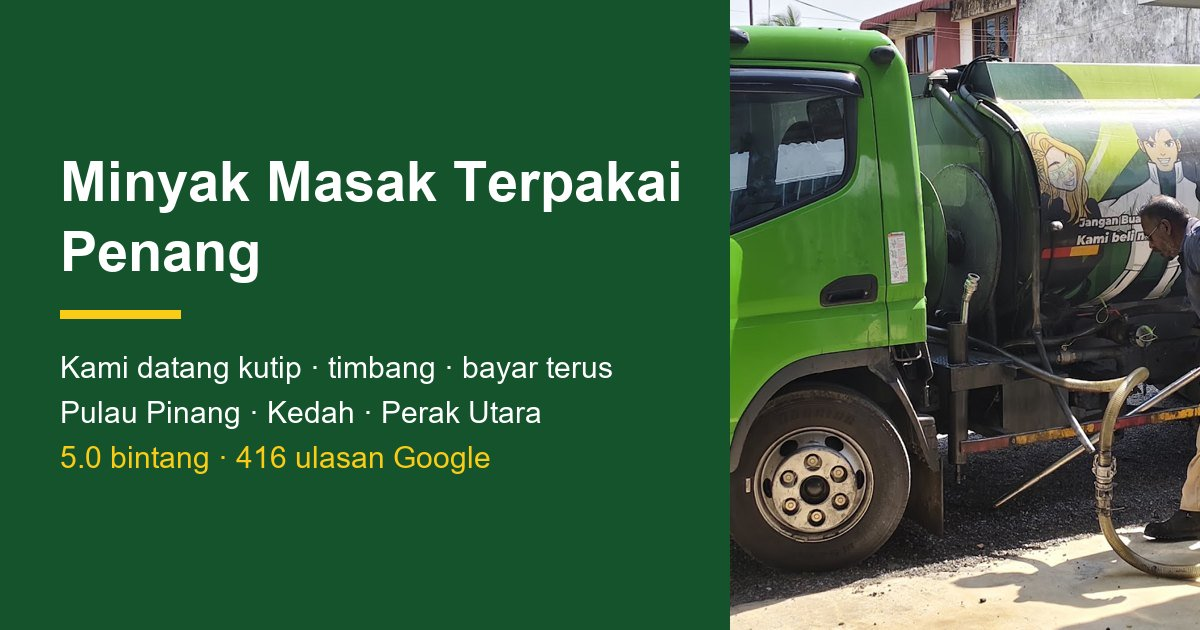
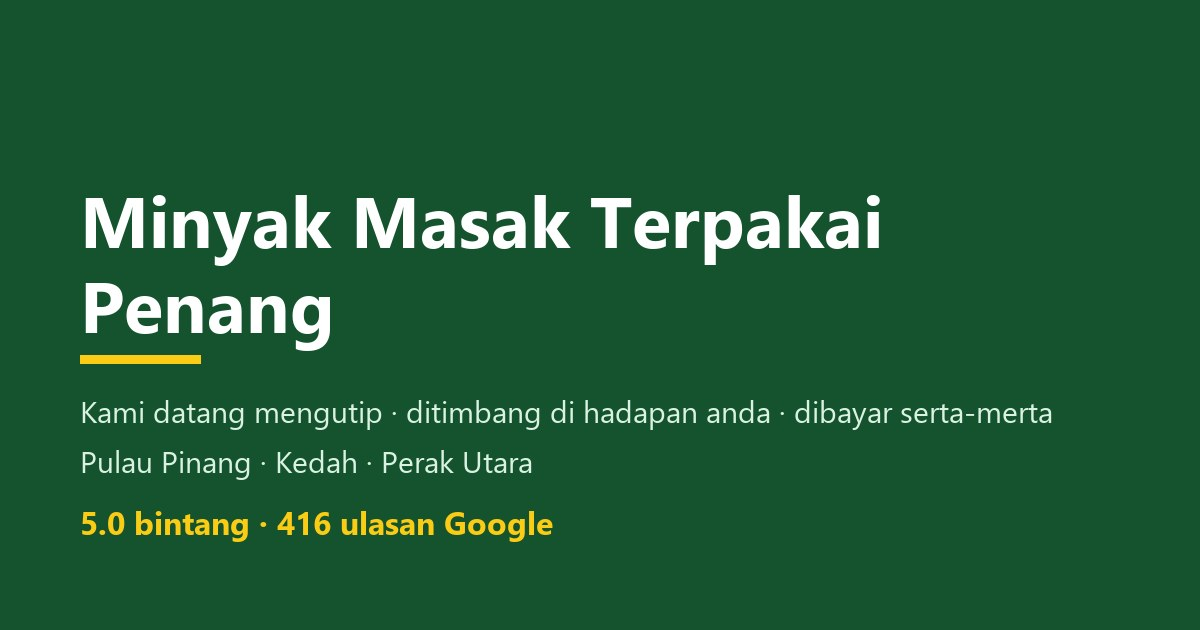
Buang gambar lori syarikat lain (arahan Boss); JKKK; og baharu

diff --git a/draf/index.html b/draf/index.html
@@ -140,6 +140,7 @@ footer small{color:#a9b0a7}
 @media(prefers-reduced-motion:reduce){*{transition:none!important;scroll-behavior:auto!important}}
 .ejen{background:#facc15;color:#14532d;font-size:14px;font-weight:600}.ejen .wrap{display:flex;align-items:center;justify-content:center;gap:12px;flex-wrap:wrap;padding-top:8px;padding-bottom:8px;text-align:center}.ejbtn{background:#14532d;color:#fff!important;text-decoration:none;font-weight:800;padding:8px 18px;border-radius:999px;min-height:40px;display:inline-flex;align-items:center;white-space:nowrap}.ejbtn:hover{background:#166534}.lokbtn{display:inline-flex;align-items:center;gap:8px;min-height:44px;padding:10px 16px;border-radius:12px;border:2px solid #15803d;background:#fff;color:#14532d;font:700 15px Figtree,system-ui,sans-serif;cursor:pointer}.lokbtn[aria-pressed=true]{background:#dcfce7}.lokn{display:block;margin-top:6px;color:#bbf7d0;font-size:13px}.zon{display:grid;gap:16px;grid-template-columns:repeat(auto-fit,minmax(240px,1fr))}.zon .card h3{margin-bottom:10px}.zon ul{margin:0;padding-left:18px}
 #inv-go{background:#facc15;color:#14532d;border-color:#facc15}#inv-go:hover{background:#fde047}.kp{margin-top:18px}.kp .card{background:rgba(255,255,255,.08);border-color:rgba(255,255,255,.18);color:#fff}.kp .card h3{color:#fff}.kp .card p{color:#d9f2e1}.kpf{margin-top:18px;display:grid;gap:12px;grid-template-columns:1fr}@media(min-width:700px){.kpf{grid-template-columns:2fr 1fr}}.kpf label{display:block;font-weight:700;font-size:14px;margin-bottom:6px;color:#fff}.kpf input{width:100%;min-height:48px;border-radius:12px;border:0;padding:10px 14px;font:16px Figtree,system-ui,sans-serif}
+.heroart{background:radial-gradient(circle at 30% 20%,#1f7a45,#14532d 70%);display:flex;flex-direction:column;align-items:center;justify-content:center;padding:28px;gap:10px}.heroart svg{max-height:62%}.heroart figcaption{text-align:center;color:#fff}.heroart figcaption b{display:block;font-size:22px}.heroart figcaption span{color:#bbf7d0;font-size:15px}
 </style>
 </head>
 <body>
@@ -158,7 +159,7 @@ footer small{color:#a9b0a7}
 <ul class="chips"><li data-en="5.0 · 416 Google reviews">5.0 · 416 ulasan Google</li><li data-en="We come to you">Datang ke rumah</li><li data-en="Weighed in front of you">Ditimbang di hadapan anda</li><li data-en="Hotels &amp; food factories">Hotel &amp; kilang makanan</li></ul>
 <div class="ctas"><a class="btn pri" href="#kira" data-en="Calculate your oil">Kira anggaran minyak anda</a><a class="btn sec" href="https://wa.me/60164715580" rel="noopener" data-en="WhatsApp us">WhatsApp kami</a></div>
 </div>
-<figure class="heroimg" style="margin:0"><img src="img/hero.jpg" width="900" height="675" alt="Lori tangki hijau mengutip minyak masak terpakai" data-en-alt="Green tanker lorry collecting used cooking oil" fetchpriority="high"></figure>
+<figure class="heroimg heroart" style="margin:0" aria-hidden="true"><svg viewBox="0 0 120 90" width="100%" height="100%" preserveAspectRatio="xMidYMid meet"><g fill="none" stroke="#facc15" stroke-width="2.4" stroke-linejoin="round" stroke-linecap="round"><path d="M22 30h14l4-7h12a4 4 0 0 1 4 4v42a4 4 0 0 1-4 4H26a4 4 0 0 1-4-4z"/><path d="M41 31h11"/><path d="M26 50h26" opacity=".5"/><rect x="66" y="64" width="34" height="9" rx="2"/><path d="M83 64V40M74 40h18a3 3 0 0 0 3-3v-6a3 3 0 0 0-3-3H74a3 3 0 0 0-3 3v6a3 3 0 0 0 3 3z"/><path d="M77 34h12"/></g></svg><figcaption><b data-en="Weighed in front of you">Ditimbang di hadapan anda</b><span data-en="Digital scale · paid on the spot">Penimbang digital · dibayar serta-merta</span></figcaption></figure>
 </div></section>
 
 <section class="tool" id="kira" aria-labelledby="kira-h"><div class="wrap">
@@ -195,7 +196,6 @@ footer small{color:#a9b0a7}
 <div><span class="eyebrow" data-en="What customers say">Kata pelanggan</span><h2 id="ul-h" data-en="5.0 stars on Google">5.0 bintang di Google</h2>
 <p class="sub" data-en="416 reviews from our customers. Read them yourself on Google Maps.">416 ulasan daripada pelanggan kami. Baca sendiri di Google Maps.</p>
 <div class="pbig">5.0 ★</div><p style="color:var(--mut);margin:6px 0 0" data-en="416 Google reviews">416 ulasan Google</p></div>
-<div class="gal" style="grid-template-columns:1fr"><figure><img src="img/g0.jpg" width="600" height="450" loading="lazy" alt="Kutipan dengan lori tangki" data-en-alt="Collecting with the tanker lorry"><figcaption data-en="Collecting with the tanker lorry">Kutipan dengan lori tangki</figcaption></figure><figure><img src="img/g1.jpg" width="600" height="800" loading="lazy" alt="Timbang di depan pelanggan" data-en-alt="Weighed in front of the customer"><figcaption data-en="Weighed in front of the customer">Timbang di depan pelanggan</figcaption></figure></div>
 </div></div></section>
 
 <section aria-labelledby="simpan-h"><div class="wrap">
@@ -210,7 +210,7 @@ footer small{color:#a9b0a7}
 
 <section class="tool" id="kempen" aria-labelledby="kempen-h"><div class="wrap">
 <h2 id="kempen-h" data-en="Community collection campaign">Kempen Kutipan Komuniti</h2>
-<p class="sub" data-en="For residents' associations (JKK), surau, mosques and schools. Invite us to your area. We bring the lorry and digital scale, residents bring their used oil, and everyone is paid on the spot.">Untuk JKK, persatuan penduduk, surau, masjid dan sekolah. Jemput kami ke kawasan anda. Kami membawa lori dan penimbang digital, penduduk membawa minyak terpakai, dan semua orang dibayar di tempat.</p>
+<p class="sub" data-en="For residents' associations (JKKK), surau, mosques and schools. Invite us to your area. We bring the lorry and digital scale, residents bring their used oil, and everyone is paid on the spot.">Untuk JKKK, persatuan penduduk, surau, masjid dan sekolah. Jemput kami ke kawasan anda. Kami membawa lori dan penimbang digital, penduduk membawa minyak terpakai, dan semua orang dibayar di tempat.</p>
 <div class="cards kp">
 <div class="card"><div class="n">1</div><h3 data-en="Invite us">Jemput kami</h3><p data-en="Tell us the place and expected participants. We agree a date together.">Maklumkan tempat dan anggaran peserta. Kemudian, kita tetapkan tarikh bersama-sama.</p></div>
 <div class="card"><div class="n">2</div><h3 data-en="Residents collect">Penduduk mengumpul</h3><p data-en="Residents keep strained, cooled oil in closed bottles until the day.">Penduduk simpan minyak yang sudah ditapis dalam botol bertutup sehingga hari kempen.</p></div>
@@ -232,7 +232,7 @@ footer small{color:#a9b0a7}
 
 <section aria-labelledby="faq-h"><div class="wrap" style="max-width:780px">
 <h2 id="faq-h" data-en="Common questions">Soalan lazim</h2>
-<details><summary><span data-en="How much per kg?">Berapakah harga sekilogram?</span></summary><p data-en="The rate follows the current market. WhatsApp us for today's rate.">Harga mengikut pasaran semasa. Hubungi kami melalui WhatsApp untuk mengetahui harga hari ini.</p></details><details><summary><span data-en="Do you come to my home?">Bolehkah kutipan dibuat di rumah?</span></summary><p data-en="Yes. We come to homes, shops, restaurants, hotels and food factories across Penang, Kedah and North Perak.">Boleh. Kami datang ke rumah, kedai, restoran, hotel dan kilang makanan di seluruh Pulau Pinang, Kedah dan Perak Utara.</p></details><details><summary><span data-en="Can restaurants get a fixed schedule?">Bolehkah restoran mendapat jadual kutipan tetap?</span></summary><p data-en="Yes. WhatsApp us your weekly volume and we will arrange a pickup schedule.">Boleh. Maklumkan anggaran minyak seminggu melalui WhatsApp, dan kami akan menyusun jadual kutipan.</p></details><details><summary><span data-en="What oil is accepted?">Minyak yang bagaimanakah diterima?</span></summary><p data-en="Used cooking oil that is strained and not mixed with water or engine oil.">Minyak masak terpakai yang sudah ditapis, tidak bercampur air atau minyak enjin.</p></details><details><summary><span data-en="Can you run a campaign in our area?">Bolehkah kempen kutipan diadakan di taman kami?</span></summary><p data-en="Yes. Residents' associations, surau, mosques and schools can invite us. Use the invite form above or WhatsApp us.">Boleh. JKK, persatuan penduduk, surau, masjid dan sekolah boleh menjemput kami. Gunakan borang jemputan di atas atau hubungi kami melalui WhatsApp.</p></details><details><summary><span data-en="Can I become an agent?">Bolehkah saya menjadi ejen?</span></summary><p data-en="Yes. If you know restaurants, stalls or shops with used oil, WhatsApp us and we will explain how it works.">Boleh. Jika anda kenal restoran, gerai atau kedai yang mempunyai minyak terpakai, hubungi kami melalui WhatsApp dan kami akan menerangkan caranya.</p></details>
+<details><summary><span data-en="How much per kg?">Berapakah harga sekilogram?</span></summary><p data-en="The rate follows the current market. WhatsApp us for today's rate.">Harga mengikut pasaran semasa. Hubungi kami melalui WhatsApp untuk mengetahui harga hari ini.</p></details><details><summary><span data-en="Do you come to my home?">Bolehkah kutipan dibuat di rumah?</span></summary><p data-en="Yes. We come to homes, shops, restaurants, hotels and food factories across Penang, Kedah and North Perak.">Boleh. Kami datang ke rumah, kedai, restoran, hotel dan kilang makanan di seluruh Pulau Pinang, Kedah dan Perak Utara.</p></details><details><summary><span data-en="Can restaurants get a fixed schedule?">Bolehkah restoran mendapat jadual kutipan tetap?</span></summary><p data-en="Yes. WhatsApp us your weekly volume and we will arrange a pickup schedule.">Boleh. Maklumkan anggaran minyak seminggu melalui WhatsApp, dan kami akan menyusun jadual kutipan.</p></details><details><summary><span data-en="What oil is accepted?">Minyak yang bagaimanakah diterima?</span></summary><p data-en="Used cooking oil that is strained and not mixed with water or engine oil.">Minyak masak terpakai yang sudah ditapis, tidak bercampur air atau minyak enjin.</p></details><details><summary><span data-en="Can you run a campaign in our area?">Bolehkah kempen kutipan diadakan di taman kami?</span></summary><p data-en="Yes. Residents' associations, surau, mosques and schools can invite us. Use the invite form above or WhatsApp us.">Boleh. JKKK, persatuan penduduk, surau, masjid dan sekolah boleh menjemput kami. Gunakan borang jemputan di atas atau hubungi kami melalui WhatsApp.</p></details><details><summary><span data-en="Can I become an agent?">Bolehkah saya menjadi ejen?</span></summary><p data-en="Yes. If you know restaurants, stalls or shops with used oil, WhatsApp us and we will explain how it works.">Boleh. Jika anda kenal restoran, gerai atau kedai yang mempunyai minyak terpakai, hubungi kami melalui WhatsApp dan kami akan menerangkan caranya.</p></details>
 </div></section>
 </main>
 

diff --git a/index.html b/index.html
@@ -140,6 +140,7 @@ footer small{color:#a9b0a7}
 @media(prefers-reduced-motion:reduce){*{transition:none!important;scroll-behavior:auto!important}}
 .ejen{background:#facc15;color:#14532d;font-size:14px;font-weight:600}.ejen .wrap{display:flex;align-items:center;justify-content:center;gap:12px;flex-wrap:wrap;padding-top:8px;padding-bottom:8px;text-align:center}.ejbtn{background:#14532d;color:#fff!important;text-decoration:none;font-weight:800;padding:8px 18px;border-radius:999px;min-height:40px;display:inline-flex;align-items:center;white-space:nowrap}.ejbtn:hover{background:#166534}.lokbtn{display:inline-flex;align-items:center;gap:8px;min-height:44px;padding:10px 16px;border-radius:12px;border:2px solid #15803d;background:#fff;color:#14532d;font:700 15px Figtree,system-ui,sans-serif;cursor:pointer}.lokbtn[aria-pressed=true]{background:#dcfce7}.lokn{display:block;margin-top:6px;color:#bbf7d0;font-size:13px}.zon{display:grid;gap:16px;grid-template-columns:repeat(auto-fit,minmax(240px,1fr))}.zon .card h3{margin-bottom:10px}.zon ul{margin:0;padding-left:18px}
 #inv-go{background:#facc15;color:#14532d;border-color:#facc15}#inv-go:hover{background:#fde047}.kp{margin-top:18px}.kp .card{background:rgba(255,255,255,.08);border-color:rgba(255,255,255,.18);color:#fff}.kp .card h3{color:#fff}.kp .card p{color:#d9f2e1}.kpf{margin-top:18px;display:grid;gap:12px;grid-template-columns:1fr}@media(min-width:700px){.kpf{grid-template-columns:2fr 1fr}}.kpf label{display:block;font-weight:700;font-size:14px;margin-bottom:6px;color:#fff}.kpf input{width:100%;min-height:48px;border-radius:12px;border:0;padding:10px 14px;font:16px Figtree,system-ui,sans-serif}
+.heroart{background:radial-gradient(circle at 30% 20%,#1f7a45,#14532d 70%);display:flex;flex-direction:column;align-items:center;justify-content:center;padding:28px;gap:10px}.heroart svg{max-height:62%}.heroart figcaption{text-align:center;color:#fff}.heroart figcaption b{display:block;font-size:22px}.heroart figcaption span{color:#bbf7d0;font-size:15px}
 </style>
 </head>
 <body>
@@ -158,7 +159,7 @@ footer small{color:#a9b0a7}
 <ul class="chips"><li data-en="5.0 · 416 Google reviews">5.0 · 416 ulasan Google</li><li data-en="We come to you">Datang ke rumah</li><li data-en="Weighed in front of you">Ditimbang di hadapan anda</li><li data-en="Hotels &amp; food factories">Hotel &amp; kilang makanan</li></ul>
 <div class="ctas"><a class="btn pri" href="#kira" data-en="Calculate your oil">Kira anggaran minyak anda</a><a class="btn sec" href="https://wa.me/60164715580" rel="noopener" data-en="WhatsApp us">WhatsApp kami</a></div>
 </div>
-<figure class="heroimg" style="margin:0"><img src="img/hero.jpg" width="900" height="675" alt="Lori tangki hijau mengutip minyak masak terpakai" data-en-alt="Green tanker lorry collecting used cooking oil" fetchpriority="high"></figure>
+<figure class="heroimg heroart" style="margin:0" aria-hidden="true"><svg viewBox="0 0 120 90" width="100%" height="100%" preserveAspectRatio="xMidYMid meet"><g fill="none" stroke="#facc15" stroke-width="2.4" stroke-linejoin="round" stroke-linecap="round"><path d="M22 30h14l4-7h12a4 4 0 0 1 4 4v42a4 4 0 0 1-4 4H26a4 4 0 0 1-4-4z"/><path d="M41 31h11"/><path d="M26 50h26" opacity=".5"/><rect x="66" y="64" width="34" height="9" rx="2"/><path d="M83 64V40M74 40h18a3 3 0 0 0 3-3v-6a3 3 0 0 0-3-3H74a3 3 0 0 0-3 3v6a3 3 0 0 0 3 3z"/><path d="M77 34h12"/></g></svg><figcaption><b data-en="Weighed in front of you">Ditimbang di hadapan anda</b><span data-en="Digital scale · paid on the spot">Penimbang digital · dibayar serta-merta</span></figcaption></figure>
 </div></section>
 
 <section class="tool" id="kira" aria-labelledby="kira-h"><div class="wrap">
@@ -195,7 +196,6 @@ footer small{color:#a9b0a7}
 <div><span class="eyebrow" data-en="What customers say">Kata pelanggan</span><h2 id="ul-h" data-en="5.0 stars on Google">5.0 bintang di Google</h2>
 <p class="sub" data-en="416 reviews from our customers. Read them yourself on Google Maps.">416 ulasan daripada pelanggan kami. Baca sendiri di Google Maps.</p>
 <div class="pbig">5.0 ★</div><p style="color:var(--mut);margin:6px 0 0" data-en="416 Google reviews">416 ulasan Google</p></div>
-<div class="gal" style="grid-template-columns:1fr"><figure><img src="img/g0.jpg" width="600" height="450" loading="lazy" alt="Kutipan dengan lori tangki" data-en-alt="Collecting with the tanker lorry"><figcaption data-en="Collecting with the tanker lorry">Kutipan dengan lori tangki</figcaption></figure><figure><img src="img/g1.jpg" width="600" height="800" loading="lazy" alt="Timbang di depan pelanggan" data-en-alt="Weighed in front of the customer"><figcaption data-en="Weighed in front of the customer">Timbang di depan pelanggan</figcaption></figure></div>
 </div></div></section>
 
 <section aria-labelledby="simpan-h"><div class="wrap">
@@ -210,7 +210,7 @@ footer small{color:#a9b0a7}
 
 <section class="tool" id="kempen" aria-labelledby="kempen-h"><div class="wrap">
 <h2 id="kempen-h" data-en="Community collection campaign">Kempen Kutipan Komuniti</h2>
-<p class="sub" data-en="For residents' associations (JKK), surau, mosques and schools. Invite us to your area. We bring the lorry and digital scale, residents bring their used oil, and everyone is paid on the spot.">Untuk JKK, persatuan penduduk, surau, masjid dan sekolah. Jemput kami ke kawasan anda. Kami membawa lori dan penimbang digital, penduduk membawa minyak terpakai, dan semua orang dibayar di tempat.</p>
+<p class="sub" data-en="For residents' associations (JKKK), surau, mosques and schools. Invite us to your area. We bring the lorry and digital scale, residents bring their used oil, and everyone is paid on the spot.">Untuk JKKK, persatuan penduduk, surau, masjid dan sekolah. Jemput kami ke kawasan anda. Kami membawa lori dan penimbang digital, penduduk membawa minyak terpakai, dan semua orang dibayar di tempat.</p>
 <div class="cards kp">
 <div class="card"><div class="n">1</div><h3 data-en="Invite us">Jemput kami</h3><p data-en="Tell us the place and expected participants. We agree a date together.">Maklumkan tempat dan anggaran peserta. Kemudian, kita tetapkan tarikh bersama-sama.</p></div>
 <div class="card"><div class="n">2</div><h3 data-en="Residents collect">Penduduk mengumpul</h3><p data-en="Residents keep strained, cooled oil in closed bottles until the day.">Penduduk simpan minyak yang sudah ditapis dalam botol bertutup sehingga hari kempen.</p></div>
@@ -232,7 +232,7 @@ footer small{color:#a9b0a7}
 
 <section aria-labelledby="faq-h"><div class="wrap" style="max-width:780px">
 <h2 id="faq-h" data-en="Common questions">Soalan lazim</h2>
-<details><summary><span data-en="How much per kg?">Berapakah harga sekilogram?</span></summary><p data-en="The rate follows the current market. WhatsApp us for today's rate.">Harga mengikut pasaran semasa. Hubungi kami melalui WhatsApp untuk mengetahui harga hari ini.</p></details><details><summary><span data-en="Do you come to my home?">Bolehkah kutipan dibuat di rumah?</span></summary><p data-en="Yes. We come to homes, shops, restaurants, hotels and food factories across Penang, Kedah and North Perak.">Boleh. Kami datang ke rumah, kedai, restoran, hotel dan kilang makanan di seluruh Pulau Pinang, Kedah dan Perak Utara.</p></details><details><summary><span data-en="Can restaurants get a fixed schedule?">Bolehkah restoran mendapat jadual kutipan tetap?</span></summary><p data-en="Yes. WhatsApp us your weekly volume and we will arrange a pickup schedule.">Boleh. Maklumkan anggaran minyak seminggu melalui WhatsApp, dan kami akan menyusun jadual kutipan.</p></details><details><summary><span data-en="What oil is accepted?">Minyak yang bagaimanakah diterima?</span></summary><p data-en="Used cooking oil that is strained and not mixed with water or engine oil.">Minyak masak terpakai yang sudah ditapis, tidak bercampur air atau minyak enjin.</p></details><details><summary><span data-en="Can you run a campaign in our area?">Bolehkah kempen kutipan diadakan di taman kami?</span></summary><p data-en="Yes. Residents' associations, surau, mosques and schools can invite us. Use the invite form above or WhatsApp us.">Boleh. JKK, persatuan penduduk, surau, masjid dan sekolah boleh menjemput kami. Gunakan borang jemputan di atas atau hubungi kami melalui WhatsApp.</p></details><details><summary><span data-en="Can I become an agent?">Bolehkah saya menjadi ejen?</span></summary><p data-en="Yes. If you know restaurants, stalls or shops with used oil, WhatsApp us and we will explain how it works.">Boleh. Jika anda kenal restoran, gerai atau kedai yang mempunyai minyak terpakai, hubungi kami melalui WhatsApp dan kami akan menerangkan caranya.</p></details>
+<details><summary><span data-en="How much per kg?">Berapakah harga sekilogram?</span></summary><p data-en="The rate follows the current market. WhatsApp us for today's rate.">Harga mengikut pasaran semasa. Hubungi kami melalui WhatsApp untuk mengetahui harga hari ini.</p></details><details><summary><span data-en="Do you come to my home?">Bolehkah kutipan dibuat di rumah?</span></summary><p data-en="Yes. We come to homes, shops, restaurants, hotels and food factories across Penang, Kedah and North Perak.">Boleh. Kami datang ke rumah, kedai, restoran, hotel dan kilang makanan di seluruh Pulau Pinang, Kedah dan Perak Utara.</p></details><details><summary><span data-en="Can restaurants get a fixed schedule?">Bolehkah restoran mendapat jadual kutipan tetap?</span></summary><p data-en="Yes. WhatsApp us your weekly volume and we will arrange a pickup schedule.">Boleh. Maklumkan anggaran minyak seminggu melalui WhatsApp, dan kami akan menyusun jadual kutipan.</p></details><details><summary><span data-en="What oil is accepted?">Minyak yang bagaimanakah diterima?</span></summary><p data-en="Used cooking oil that is strained and not mixed with water or engine oil.">Minyak masak terpakai yang sudah ditapis, tidak bercampur air atau minyak enjin.</p></details><details><summary><span data-en="Can you run a campaign in our area?">Bolehkah kempen kutipan diadakan di taman kami?</span></summary><p data-en="Yes. Residents' associations, surau, mosques and schools can invite us. Use the invite form above or WhatsApp us.">Boleh. JKKK, persatuan penduduk, surau, masjid dan sekolah boleh menjemput kami. Gunakan borang jemputan di atas atau hubungi kami melalui WhatsApp.</p></details><details><summary><span data-en="Can I become an agent?">Bolehkah saya menjadi ejen?</span></summary><p data-en="Yes. If you know restaurants, stalls or shops with used oil, WhatsApp us and we will explain how it works.">Boleh. Jika anda kenal restoran, gerai atau kedai yang mempunyai minyak terpakai, hubungi kami melalui WhatsApp dan kami akan menerangkan caranya.</p></details>
 </div></section>
 </main>
 
